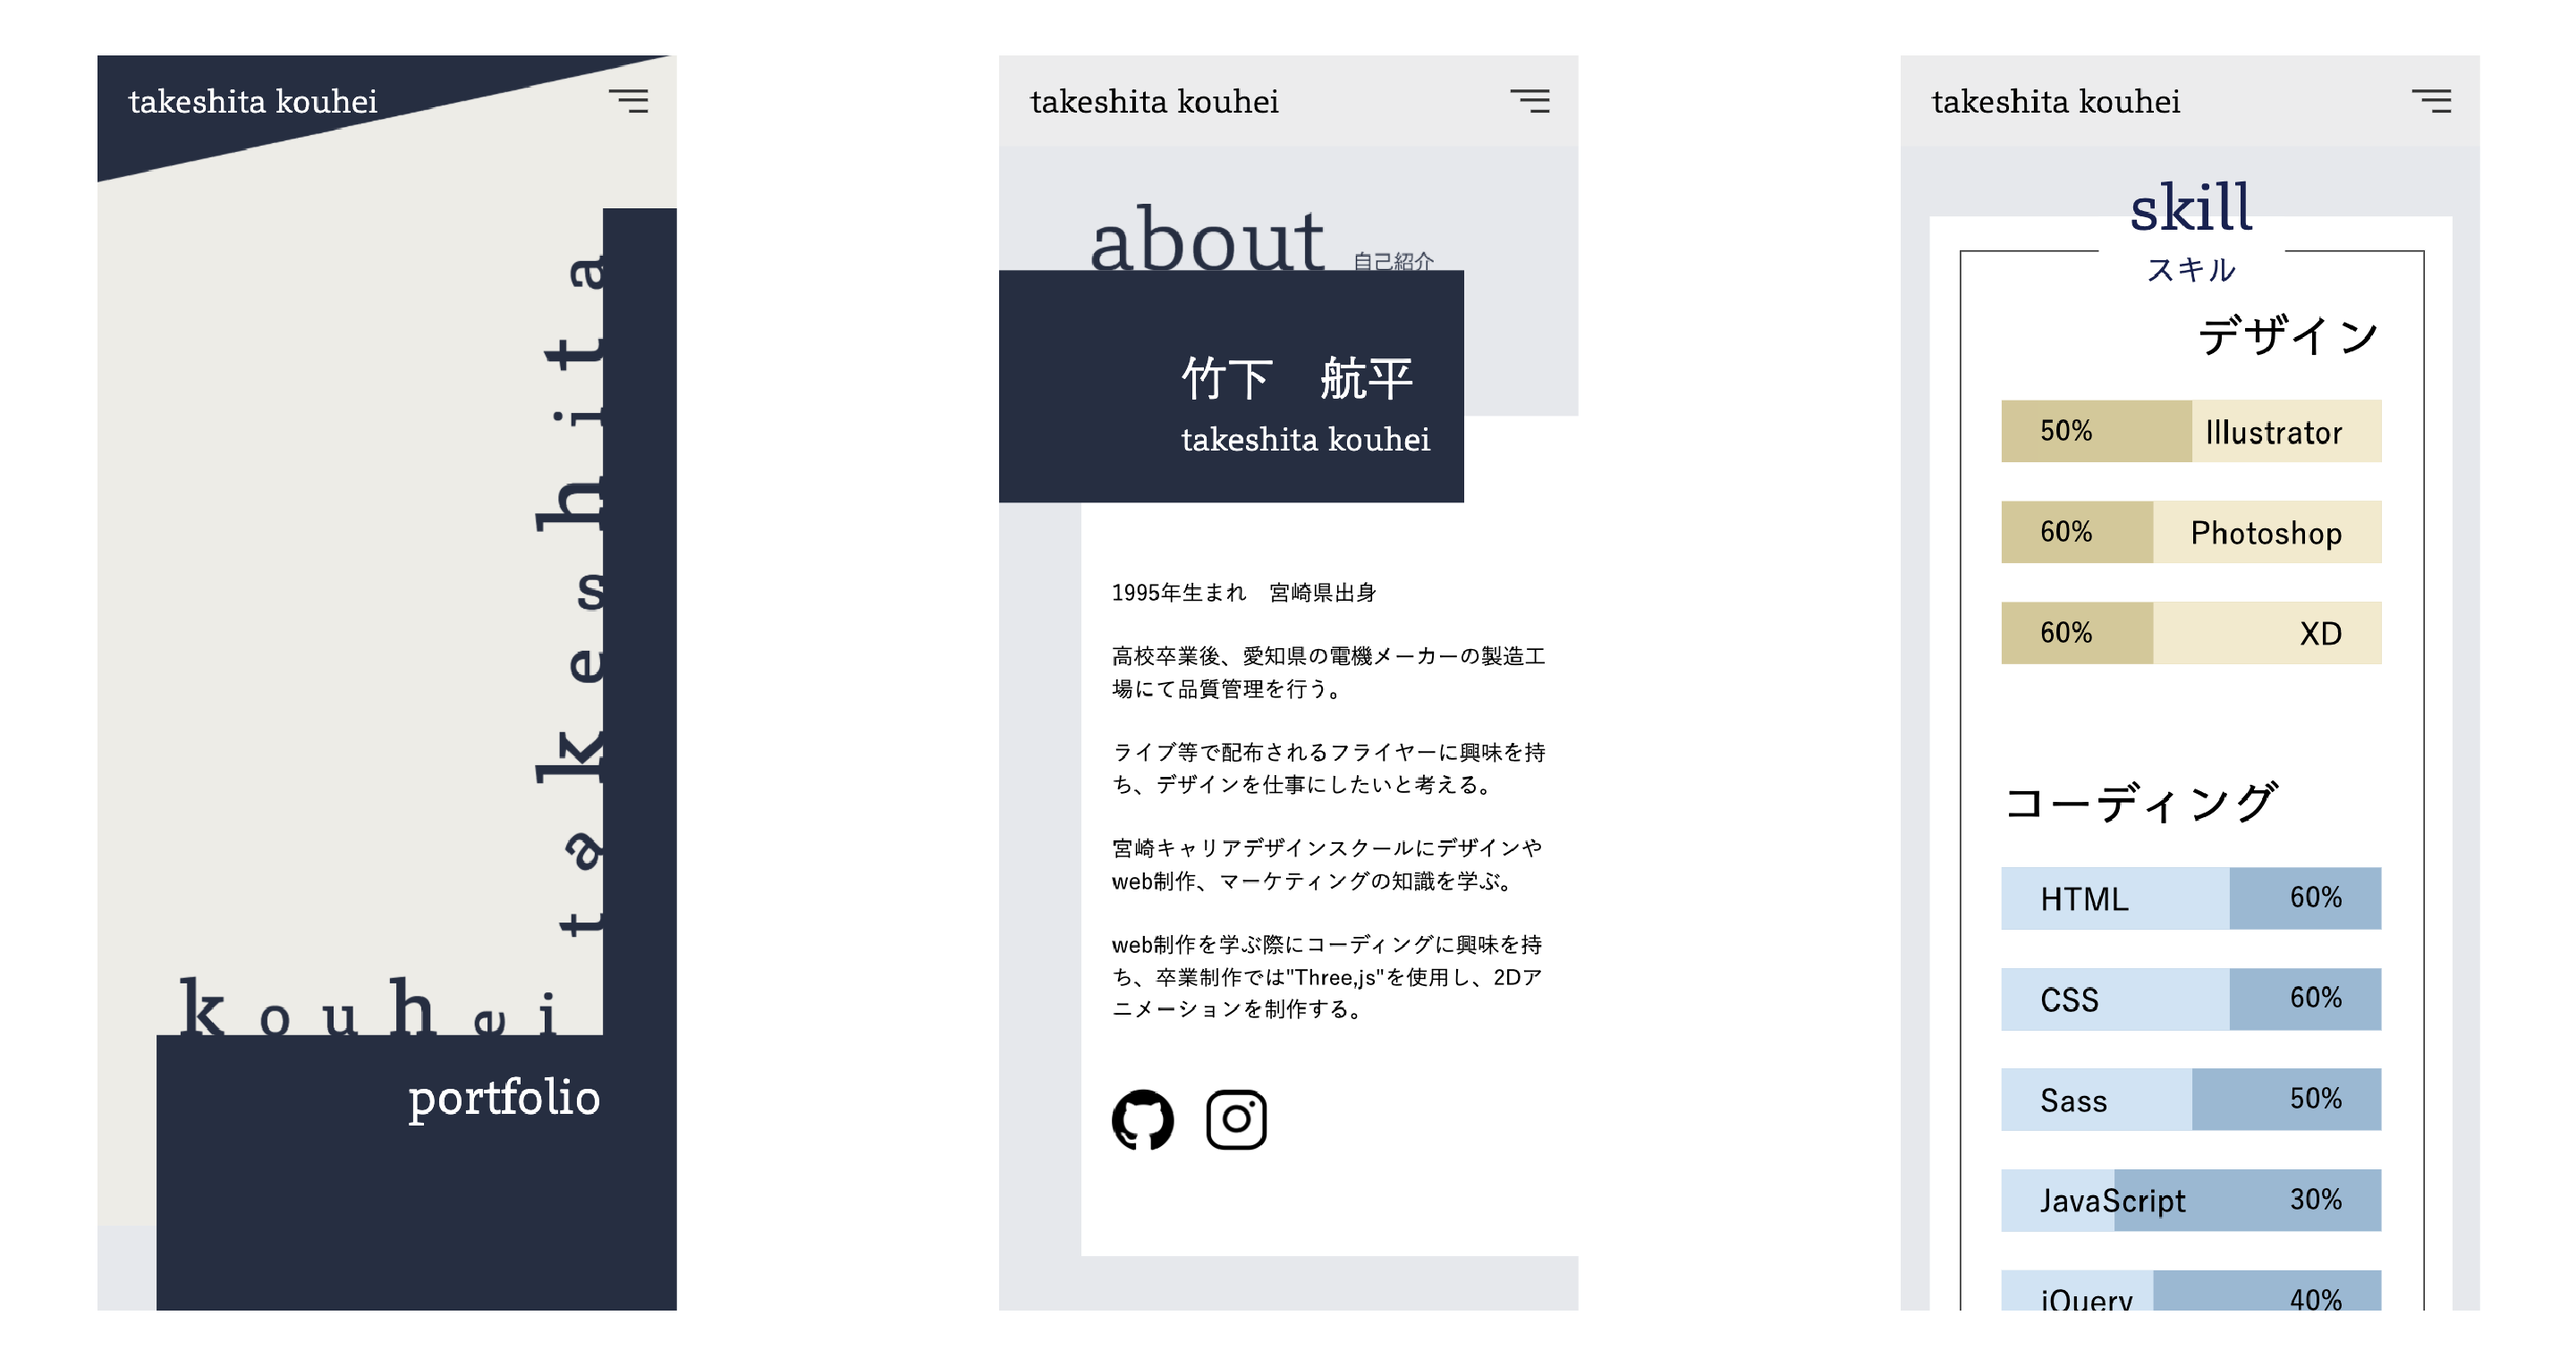
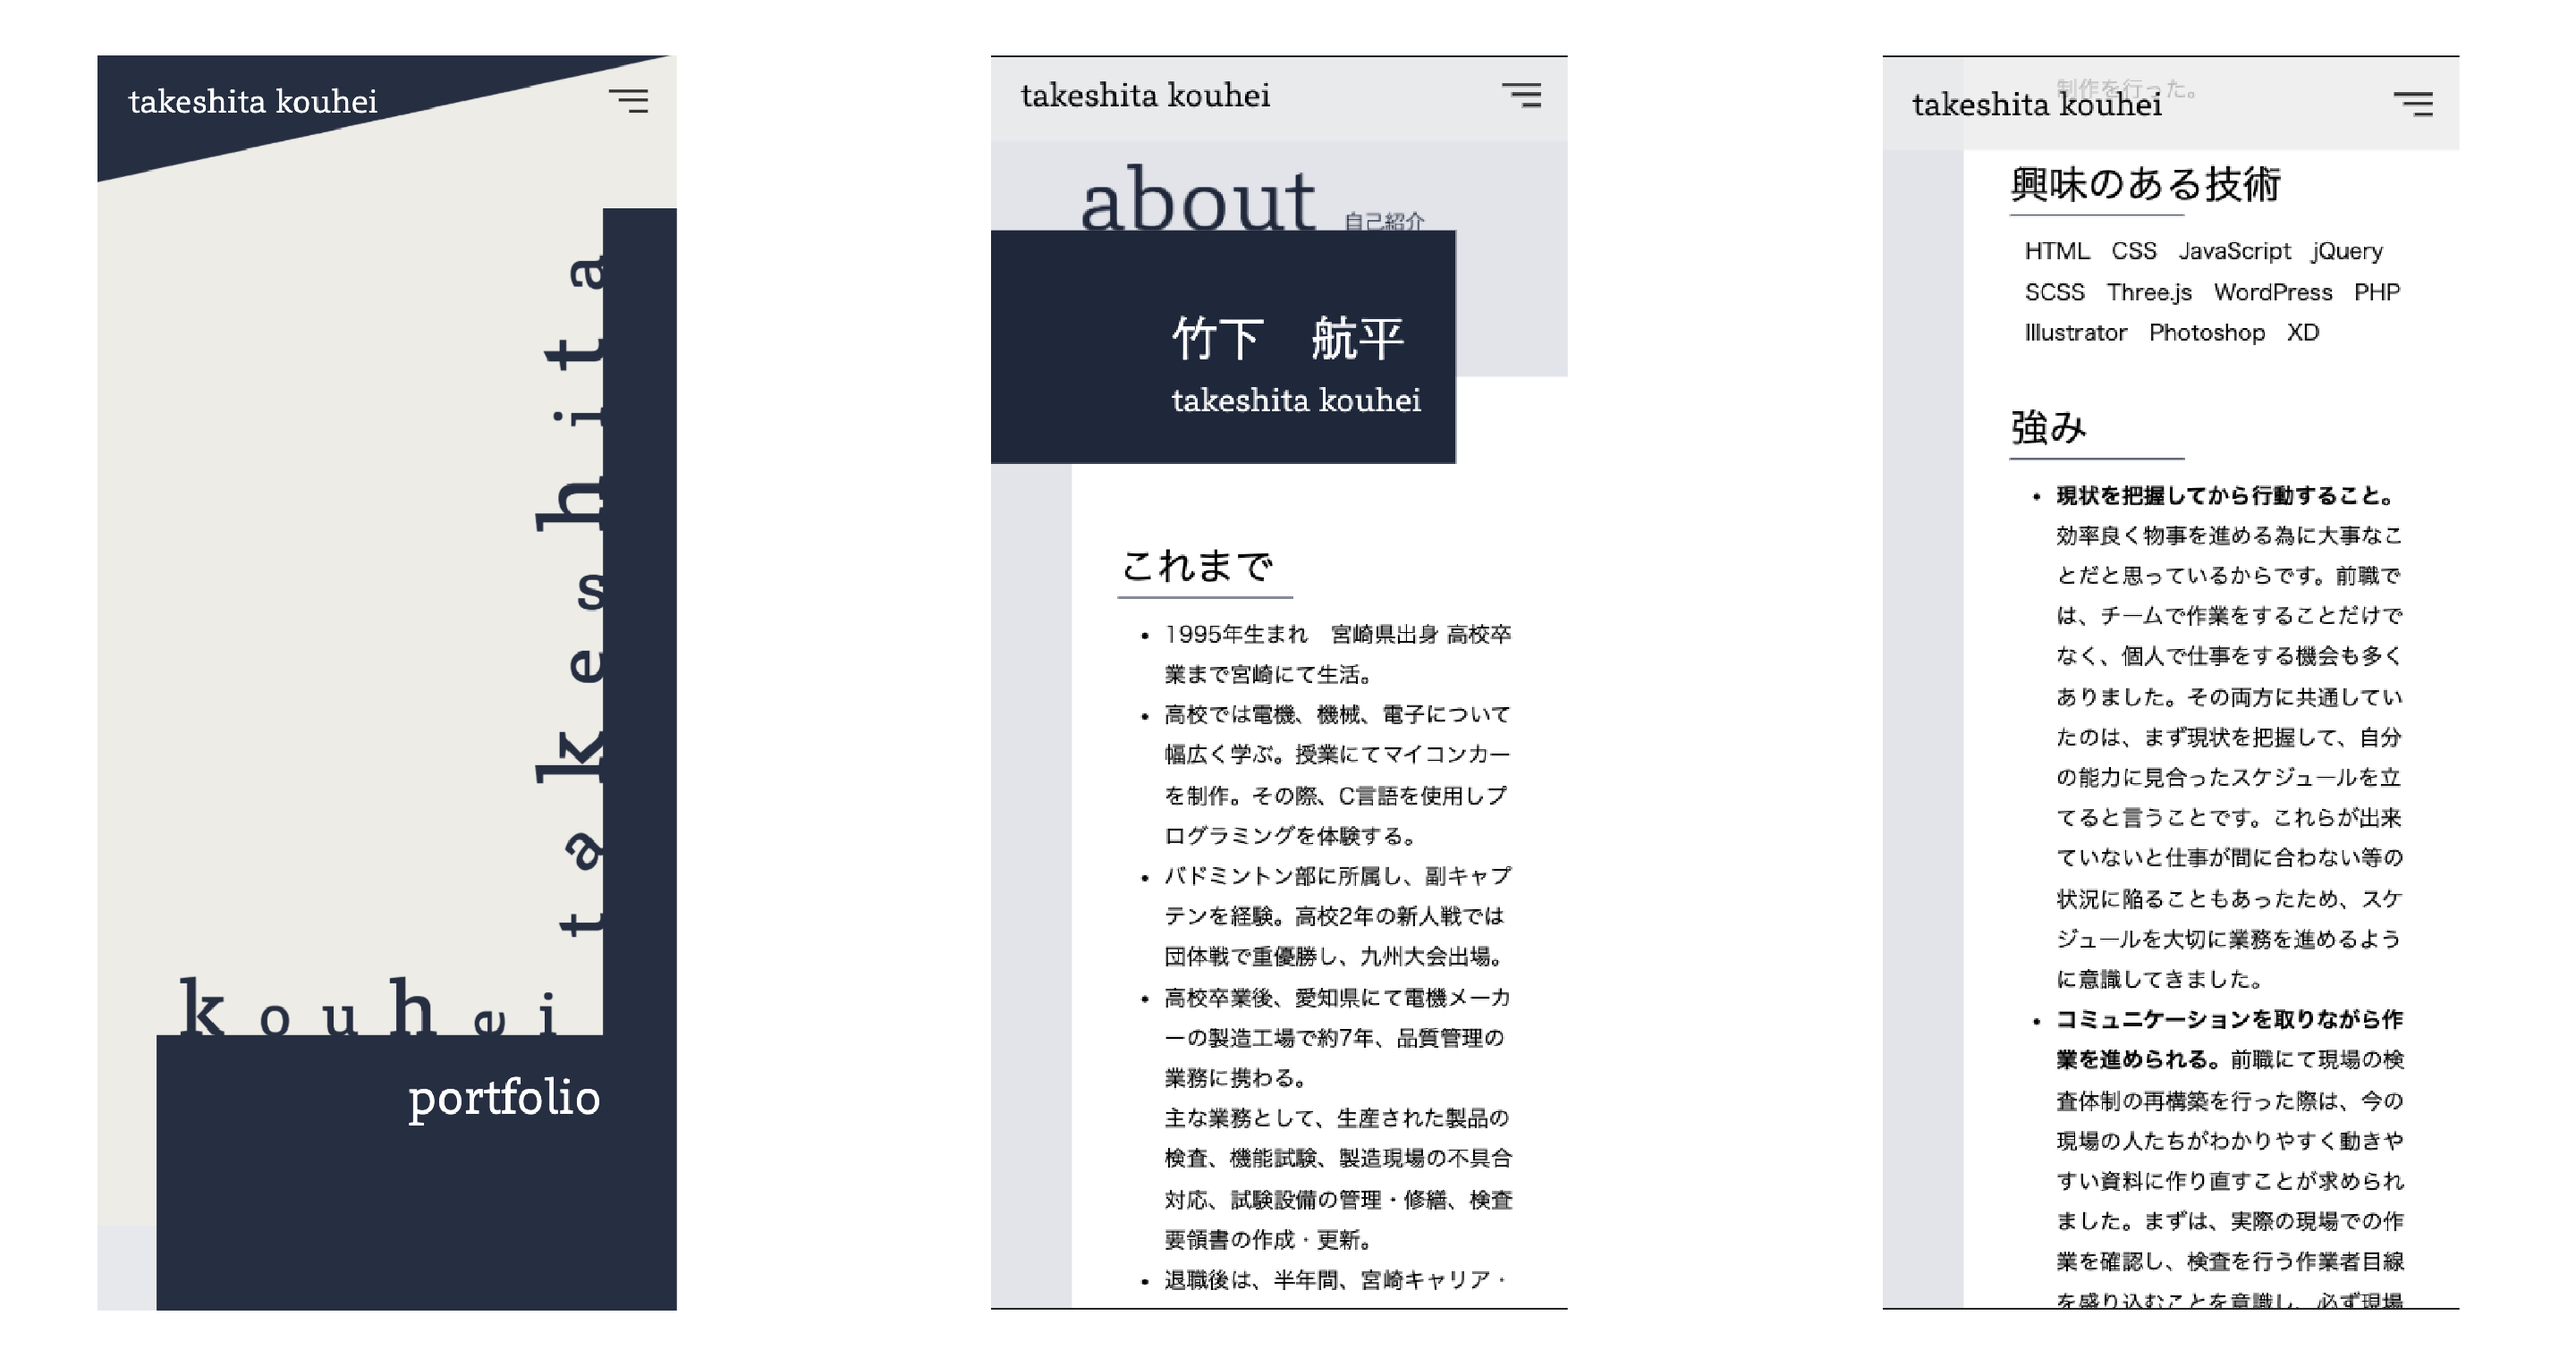
0714

diff --git a/portfolio.html b/portfolio.html
@@ -139,7 +139,7 @@
             <section class="workpage-work_group">
               <h3 class="workpage-work_section_title">制作ポイント</h3>
               <p class="workpage-work_section_text">
-                ・GitHubを使用し、サイトを作成しました。
+                ・GitHubを使用し、サイトを作成しました。<br />
                 ・最低限のアニメーションにし、見やすくなるレイアウトを意識してデザインしました。<br />
                 ・各制作の小ページにサイトの写真、詳細を記載。又、ページ下にGitHubに掲載してあるコードに飛べるようリンクを配置。
               </p>
@@ -171,7 +171,7 @@
           <div class="workpage-work_img">
             <img
               class="workpage-work_img_photo"
-              src="./image/portfolio/skill.png"
+              src="./image/portfolio/profile.png"
               alt=""
             />
           </div>
